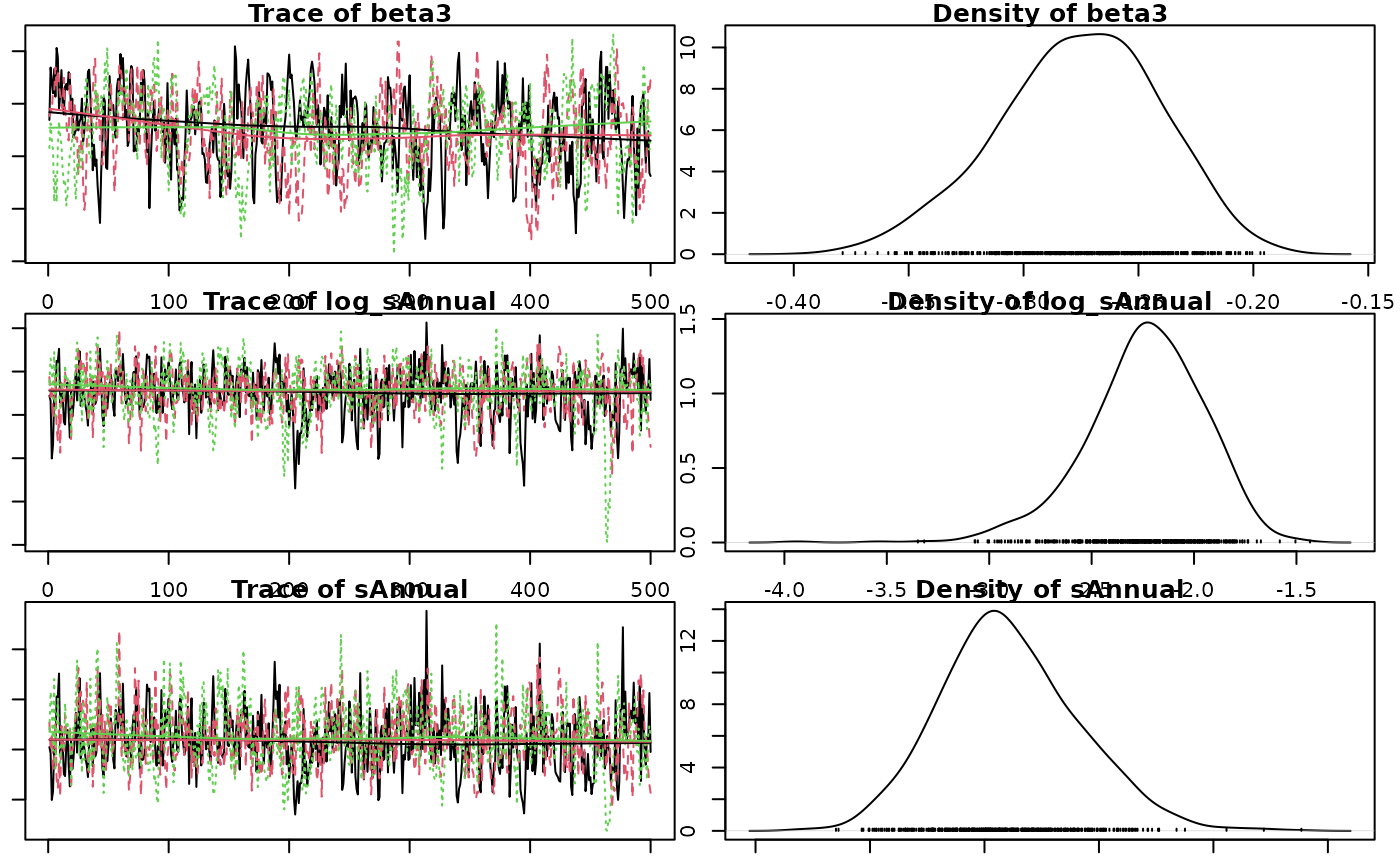
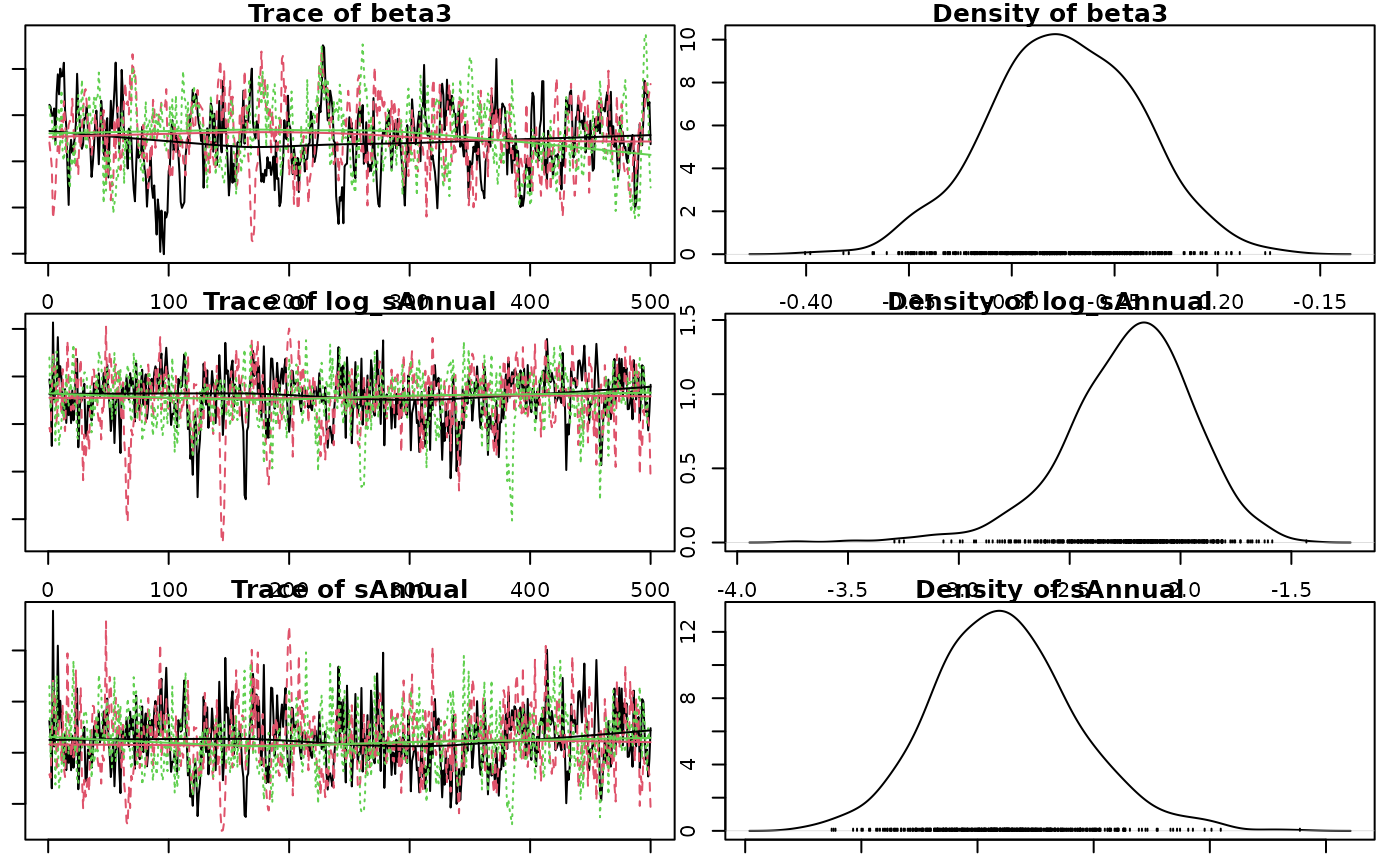
Deploying to gh-pages from @ poissonconsulting/jmbr@0eeaa900412387e9b53f934eb96b704969ec71a0 🚀

diff --git a/articles/jmbr.html b/articles/jmbr.html
@@ -33,7 +33,7 @@
       </button>
       <span class="navbar-brand">
         <a class="navbar-link" href="../index.html">jmbr</a>
-        <span class="version label label-default" data-toggle="tooltip" data-placement="bottom" title="">0.0.0.9113</span>
+        <span class="version label label-default" data-toggle="tooltip" data-placement="bottom" title="">0.0.0.9114</span>
       </span>
     </div>
 
@@ -300,14 +300,14 @@ value and discarding all other values.</p>
 <span><span class="co">#&gt; <span style="color: #949494;"># A tibble: 1 × 8</span></span></span>
 <span><span class="co">#&gt;       n     K nchains niters nthin   ess  rhat converged</span></span>
 <span><span class="co">#&gt;   <span style="color: #949494; font-style: italic;">&lt;int&gt;</span> <span style="color: #949494; font-style: italic;">&lt;int&gt;</span>   <span style="color: #949494; font-style: italic;">&lt;int&gt;</span>  <span style="color: #949494; font-style: italic;">&lt;int&gt;</span> <span style="color: #949494; font-style: italic;">&lt;int&gt;</span> <span style="color: #949494; font-style: italic;">&lt;int&gt;</span> <span style="color: #949494; font-style: italic;">&lt;dbl&gt;</span> <span style="color: #949494; font-style: italic;">&lt;lgl&gt;</span>    </span></span>
-<span><span class="co">#&gt; <span style="color: #BCBCBC;">1</span>    40     6       3    500    10   267  1.01 TRUE</span></span>
+<span><span class="co">#&gt; <span style="color: #BCBCBC;">1</span>    40     6       3    500    10   286  1.01 TRUE</span></span>
 <span><span class="co">#&gt; Warning in value[[3L]](cond): beep() could not play the sound due to the following error:</span></span>
 <span><span class="co">#&gt; Error in play.default(x, rate, ...): no audio drivers are available</span></span>
 <span><span class="va">analysis</span> <span class="op">&lt;-</span> <span class="fu"><a href="https://rdrr.io/pkg/embr/man/reanalyse.html" class="external-link">reanalyse</a></span><span class="op">(</span><span class="va">analysis</span><span class="op">)</span></span>
 <span><span class="co">#&gt; <span style="color: #949494;"># A tibble: 1 × 8</span></span></span>
 <span><span class="co">#&gt;       n     K nchains niters nthin   ess  rhat converged</span></span>
 <span><span class="co">#&gt;   <span style="color: #949494; font-style: italic;">&lt;int&gt;</span> <span style="color: #949494; font-style: italic;">&lt;int&gt;</span>   <span style="color: #949494; font-style: italic;">&lt;int&gt;</span>  <span style="color: #949494; font-style: italic;">&lt;int&gt;</span> <span style="color: #949494; font-style: italic;">&lt;int&gt;</span> <span style="color: #949494; font-style: italic;">&lt;int&gt;</span> <span style="color: #949494; font-style: italic;">&lt;dbl&gt;</span> <span style="color: #949494; font-style: italic;">&lt;lgl&gt;</span>    </span></span>
-<span><span class="co">#&gt; <span style="color: #BCBCBC;">1</span>    40     6       3    500    10   267  1.01 TRUE</span></span>
+<span><span class="co">#&gt; <span style="color: #BCBCBC;">1</span>    40     6       3    500    10   286  1.01 TRUE</span></span>
 <span><span class="co">#&gt; Warning in value[[3L]](cond): beep() could not play the sound due to the following error:</span></span>
 <span><span class="co">#&gt; Error in play.default(x, rate, ...): no audio drivers are available</span></span></code></pre></div>
 <p><strong>Analysis Table:</strong></p>
@@ -357,12 +357,12 @@ between- and within-chain estimates for model parameters.
 <span><span class="co">#&gt; <span style="color: #949494;"># A tibble: 6 × 7</span></span></span>
 <span><span class="co">#&gt;   term        estimate     sd  zscore   lower   upper   pvalue</span></span>
 <span><span class="co">#&gt;   <span style="color: #949494; font-style: italic;">&lt;term&gt;</span>         <span style="color: #949494; font-style: italic;">&lt;dbl&gt;</span>  <span style="color: #949494; font-style: italic;">&lt;dbl&gt;</span>   <span style="color: #949494; font-style: italic;">&lt;dbl&gt;</span>   <span style="color: #949494; font-style: italic;">&lt;dbl&gt;</span>   <span style="color: #949494; font-style: italic;">&lt;dbl&gt;</span>    <span style="color: #949494; font-style: italic;">&lt;dbl&gt;</span></span></span>
-<span><span class="co">#&gt; <span style="color: #BCBCBC;">1</span> alpha         4.26   0.040<span style="text-decoration: underline;">2</span> 106.     4.18    4.34   0.000<span style="text-decoration: underline;">666</span></span></span>
-<span><span class="co">#&gt; <span style="color: #BCBCBC;">2</span> beta1         1.20   0.070<span style="text-decoration: underline;">6</span>  17.0    1.08    1.35   0.000<span style="text-decoration: underline;">666</span></span></span>
-<span><span class="co">#&gt; <span style="color: #BCBCBC;">3</span> beta2        -<span style="color: #BB0000;">0.017</span><span style="color: #BB0000; text-decoration: underline;">8</span> 0.030<span style="text-decoration: underline;">4</span>  -<span style="color: #BB0000;">0.573</span> -<span style="color: #BB0000;">0.075</span><span style="color: #BB0000; text-decoration: underline;">8</span>  0.044<span style="text-decoration: underline;">1</span> 0.556   </span></span>
-<span><span class="co">#&gt; <span style="color: #BCBCBC;">4</span> beta3        -<span style="color: #BB0000;">0.275</span>  0.035<span style="text-decoration: underline;">4</span>  -<span style="color: #BB0000;">7.80</span>  -<span style="color: #BB0000;">0.350</span>  -<span style="color: #BB0000;">0.213</span>  0.000<span style="text-decoration: underline;">666</span></span></span>
-<span><span class="co">#&gt; <span style="color: #BCBCBC;">5</span> log_sAnnual  -<span style="color: #BB0000;">2.22</span>   0.292   -<span style="color: #BB0000;">7.67</span>  -<span style="color: #BB0000;">2.89</span>   -<span style="color: #BB0000;">1.74</span>   0.000<span style="text-decoration: underline;">666</span></span></span>
-<span><span class="co">#&gt; <span style="color: #BCBCBC;">6</span> sAnnual       0.109  0.030<span style="text-decoration: underline;">4</span>   3.65   0.055<span style="text-decoration: underline;">5</span>  0.176  0.000<span style="text-decoration: underline;">666</span></span></span></code></pre></div>
+<span><span class="co">#&gt; <span style="color: #BCBCBC;">1</span> alpha         4.26   0.041<span style="text-decoration: underline;">1</span> 104.     4.18    4.34   0.000<span style="text-decoration: underline;">666</span></span></span>
+<span><span class="co">#&gt; <span style="color: #BCBCBC;">2</span> beta1         1.20   0.072<span style="text-decoration: underline;">6</span>  16.5    1.06    1.35   0.000<span style="text-decoration: underline;">666</span></span></span>
+<span><span class="co">#&gt; <span style="color: #BCBCBC;">3</span> beta2        -<span style="color: #BB0000;">0.021</span><span style="color: #BB0000; text-decoration: underline;">2</span> 0.031<span style="text-decoration: underline;">4</span>  -<span style="color: #BB0000;">0.639</span> -<span style="color: #BB0000;">0.080</span><span style="color: #BB0000; text-decoration: underline;">0</span>  0.043<span style="text-decoration: underline;">7</span> 0.495   </span></span>
+<span><span class="co">#&gt; <span style="color: #BCBCBC;">4</span> beta3        -<span style="color: #BB0000;">0.275</span>  0.036<span style="text-decoration: underline;">8</span>  -<span style="color: #BB0000;">7.47</span>  -<span style="color: #BB0000;">0.348</span>  -<span style="color: #BB0000;">0.205</span>  0.000<span style="text-decoration: underline;">666</span></span></span>
+<span><span class="co">#&gt; <span style="color: #BCBCBC;">5</span> log_sAnnual  -<span style="color: #BB0000;">2.21</span>   0.297   -<span style="color: #BB0000;">7.52</span>  -<span style="color: #BB0000;">2.92</span>   -<span style="color: #BB0000;">1.73</span>   0.000<span style="text-decoration: underline;">666</span></span></span>
+<span><span class="co">#&gt; <span style="color: #BCBCBC;">6</span> sAnnual       0.110  0.030<span style="text-decoration: underline;">9</span>   3.62   0.054<span style="text-decoration: underline;">2</span>  0.178  0.000<span style="text-decoration: underline;">666</span></span></span></code></pre></div>
 <p>The estimate is the <strong>median</strong> by default.</p>
 <p>The zscore is <span class="math inline">\(mean / sd\)</span>.</p>
 <div class="sourceCode" id="cb12"><pre class="downlit sourceCode r">
@@ -370,12 +370,12 @@ between- and within-chain estimates for model parameters.
 <span><span class="co">#&gt; <span style="color: #949494;"># A tibble: 6 × 5</span></span></span>
 <span><span class="co">#&gt;   term        estimate   lower   upper svalue</span></span>
 <span><span class="co">#&gt;   <span style="color: #949494; font-style: italic;">&lt;term&gt;</span>         <span style="color: #949494; font-style: italic;">&lt;dbl&gt;</span>   <span style="color: #949494; font-style: italic;">&lt;dbl&gt;</span>   <span style="color: #949494; font-style: italic;">&lt;dbl&gt;</span>  <span style="color: #949494; font-style: italic;">&lt;dbl&gt;</span></span></span>
-<span><span class="co">#&gt; <span style="color: #BCBCBC;">1</span> alpha         4.26    4.18    4.34   10.6  </span></span>
-<span><span class="co">#&gt; <span style="color: #BCBCBC;">2</span> beta1         1.20    1.08    1.35   10.6  </span></span>
-<span><span class="co">#&gt; <span style="color: #BCBCBC;">3</span> beta2        -<span style="color: #BB0000;">0.017</span><span style="color: #BB0000; text-decoration: underline;">8</span> -<span style="color: #BB0000;">0.075</span><span style="color: #BB0000; text-decoration: underline;">8</span>  0.044<span style="text-decoration: underline;">1</span>  0.846</span></span>
-<span><span class="co">#&gt; <span style="color: #BCBCBC;">4</span> beta3        -<span style="color: #BB0000;">0.275</span>  -<span style="color: #BB0000;">0.350</span>  -<span style="color: #BB0000;">0.213</span>  10.6  </span></span>
-<span><span class="co">#&gt; <span style="color: #BCBCBC;">5</span> log_sAnnual  -<span style="color: #BB0000;">2.22</span>   -<span style="color: #BB0000;">2.89</span>   -<span style="color: #BB0000;">1.74</span>   10.6  </span></span>
-<span><span class="co">#&gt; <span style="color: #BCBCBC;">6</span> sAnnual       0.109   0.055<span style="text-decoration: underline;">5</span>  0.176  10.6</span></span></code></pre></div>
+<span><span class="co">#&gt; <span style="color: #BCBCBC;">1</span> alpha         4.26    4.18    4.34    10.6 </span></span>
+<span><span class="co">#&gt; <span style="color: #BCBCBC;">2</span> beta1         1.20    1.06    1.35    10.6 </span></span>
+<span><span class="co">#&gt; <span style="color: #BCBCBC;">3</span> beta2        -<span style="color: #BB0000;">0.021</span><span style="color: #BB0000; text-decoration: underline;">2</span> -<span style="color: #BB0000;">0.080</span><span style="color: #BB0000; text-decoration: underline;">0</span>  0.043<span style="text-decoration: underline;">7</span>   1.01</span></span>
+<span><span class="co">#&gt; <span style="color: #BCBCBC;">4</span> beta3        -<span style="color: #BB0000;">0.275</span>  -<span style="color: #BB0000;">0.348</span>  -<span style="color: #BB0000;">0.205</span>   10.6 </span></span>
+<span><span class="co">#&gt; <span style="color: #BCBCBC;">5</span> log_sAnnual  -<span style="color: #BB0000;">2.21</span>   -<span style="color: #BB0000;">2.92</span>   -<span style="color: #BB0000;">1.73</span>    10.6 </span></span>
+<span><span class="co">#&gt; <span style="color: #BCBCBC;">6</span> sAnnual       0.110   0.054<span style="text-decoration: underline;">2</span>  0.178   10.6</span></span></code></pre></div>
 <p>The s-value is the <strong>suprisal</strong> value, which is a
 measure of directionality with respect to zero.</p>
 <p>The s-value is zero (unsurprising) when <em>p-value</em> = 1.0 and

diff --git a/news/index.html b/news/index.html
@@ -17,7 +17,7 @@
       </button>
       <span class="navbar-brand">
         <a class="navbar-link" href="../index.html">jmbr</a>
-        <span class="version label label-default" data-toggle="tooltip" data-placement="bottom" title="">0.0.0.9113</span>
+        <span class="version label label-default" data-toggle="tooltip" data-placement="bottom" title="">0.0.0.9114</span>
       </span>
     </div>
 
@@ -50,6 +50,17 @@
       <small>Source: <a href="https://github.com/poissonconsulting/jmbr/blob/HEAD/NEWS.md" class="external-link"><code>NEWS.md</code></a></small>
     </div>
 
+    <div class="section level2">
+<h2 class="page-header" data-toc-text="0.0.0.9114" id="jmbr-0009114-2023-10-02">jmbr 0.0.0.9114 (2023-10-02)<a class="anchor" aria-label="anchor" href="#jmbr-0009114-2023-10-02"></a></h2>
+<div class="section level3">
+<h3 id="bug-fixes-0-0-0-9114">Bug fixes<a class="anchor" aria-label="anchor" href="#bug-fixes-0-0-0-9114"></a></h3>
+<ul><li>Use <code>model(code = )</code> in tests, stabilize (<a href="https://github.com/poissonconsulting/jmbr/issues/21" class="external-link">#21</a>).</li>
+</ul></div>
+<div class="section level3">
+<h3 id="uncategorized-0-0-0-9114">Uncategorized<a class="anchor" aria-label="anchor" href="#uncategorized-0-0-0-9114"></a></h3>
+<ul><li>Merge pull request <a href="https://github.com/poissonconsulting/jmbr/issues/20" class="external-link">#20</a> from poissonconsulting/b-glance.</li>
+</ul></div>
+</div>
     <div class="section level2">
 <h2 class="page-header" data-toc-text="0.0.0.9113" id="jmbr-0009113-2023-07-17">jmbr 0.0.0.9113 (2023-07-17)<a class="anchor" aria-label="anchor" href="#jmbr-0009113-2023-07-17"></a></h2>
 <ul><li>Switched from mbr to embr.</li>

diff --git a/articles/index.html b/articles/index.html
@@ -17,7 +17,7 @@
       </button>
       <span class="navbar-brand">
         <a class="navbar-link" href="../index.html">jmbr</a>
-        <span class="version label label-default" data-toggle="tooltip" data-placement="bottom" title="">0.0.0.9113</span>
+        <span class="version label label-default" data-toggle="tooltip" data-placement="bottom" title="">0.0.0.9114</span>
       </span>
     </div>
 

diff --git a/reference/index.html b/reference/index.html
@@ -17,7 +17,7 @@
       </button>
       <span class="navbar-brand">
         <a class="navbar-link" href="../index.html">jmbr</a>
-        <span class="version label label-default" data-toggle="tooltip" data-placement="bottom" title="">0.0.0.9113</span>
+        <span class="version label label-default" data-toggle="tooltip" data-placement="bottom" title="">0.0.0.9114</span>
       </span>
     </div>
 

diff --git a/reference/is.jmb_analysis.html b/reference/is.jmb_analysis.html
@@ -17,7 +17,7 @@
       </button>
       <span class="navbar-brand">
         <a class="navbar-link" href="../index.html">jmbr</a>
-        <span class="version label label-default" data-toggle="tooltip" data-placement="bottom" title="">0.0.0.9113</span>
+        <span class="version label label-default" data-toggle="tooltip" data-placement="bottom" title="">0.0.0.9114</span>
       </span>
     </div>
 

diff --git a/reference/is.jmb_code.html b/reference/is.jmb_code.html
@@ -17,7 +17,7 @@
       </button>
       <span class="navbar-brand">
         <a class="navbar-link" href="../index.html">jmbr</a>
-        <span class="version label label-default" data-toggle="tooltip" data-placement="bottom" title="">0.0.0.9113</span>
+        <span class="version label label-default" data-toggle="tooltip" data-placement="bottom" title="">0.0.0.9114</span>
       </span>
     </div>
 

diff --git a/reference/is.jmb_model.html b/reference/is.jmb_model.html
@@ -17,7 +17,7 @@
       </button>
       <span class="navbar-brand">
         <a class="navbar-link" href="../index.html">jmbr</a>
-        <span class="version label label-default" data-toggle="tooltip" data-placement="bottom" title="">0.0.0.9113</span>
+        <span class="version label label-default" data-toggle="tooltip" data-placement="bottom" title="">0.0.0.9114</span>
       </span>
     </div>
 

diff --git a/reference/jmbr-package.html b/reference/jmbr-package.html
@@ -17,7 +17,7 @@
       </button>
       <span class="navbar-brand">
         <a class="navbar-link" href="../index.html">jmbr</a>
-        <span class="version label label-default" data-toggle="tooltip" data-placement="bottom" title="">0.0.0.9113</span>
+        <span class="version label label-default" data-toggle="tooltip" data-placement="bottom" title="">0.0.0.9114</span>
       </span>
     </div>
 

diff --git a/404.html b/404.html
@@ -32,7 +32,7 @@
       </button>
       <span class="navbar-brand">
         <a class="navbar-link" href="index.html">jmbr</a>
-        <span class="version label label-default" data-toggle="tooltip" data-placement="bottom" title="">0.0.0.9113</span>
+        <span class="version label label-default" data-toggle="tooltip" data-placement="bottom" title="">0.0.0.9114</span>
       </span>
     </div>
 

diff --git a/CODE_OF_CONDUCT.html b/CODE_OF_CONDUCT.html
@@ -17,7 +17,7 @@
       </button>
       <span class="navbar-brand">
         <a class="navbar-link" href="index.html">jmbr</a>
-        <span class="version label label-default" data-toggle="tooltip" data-placement="bottom" title="">0.0.0.9113</span>
+        <span class="version label label-default" data-toggle="tooltip" data-placement="bottom" title="">0.0.0.9114</span>
       </span>
     </div>
 

diff --git a/CONTRIBUTING.html b/CONTRIBUTING.html
@@ -17,7 +17,7 @@
       </button>
       <span class="navbar-brand">
         <a class="navbar-link" href="index.html">jmbr</a>
-        <span class="version label label-default" data-toggle="tooltip" data-placement="bottom" title="">0.0.0.9113</span>
+        <span class="version label label-default" data-toggle="tooltip" data-placement="bottom" title="">0.0.0.9114</span>
       </span>
     </div>
 

diff --git a/LICENSE-text.html b/LICENSE-text.html
@@ -17,7 +17,7 @@
       </button>
       <span class="navbar-brand">
         <a class="navbar-link" href="index.html">jmbr</a>
-        <span class="version label label-default" data-toggle="tooltip" data-placement="bottom" title="">0.0.0.9113</span>
+        <span class="version label label-default" data-toggle="tooltip" data-placement="bottom" title="">0.0.0.9114</span>
       </span>
     </div>
 
